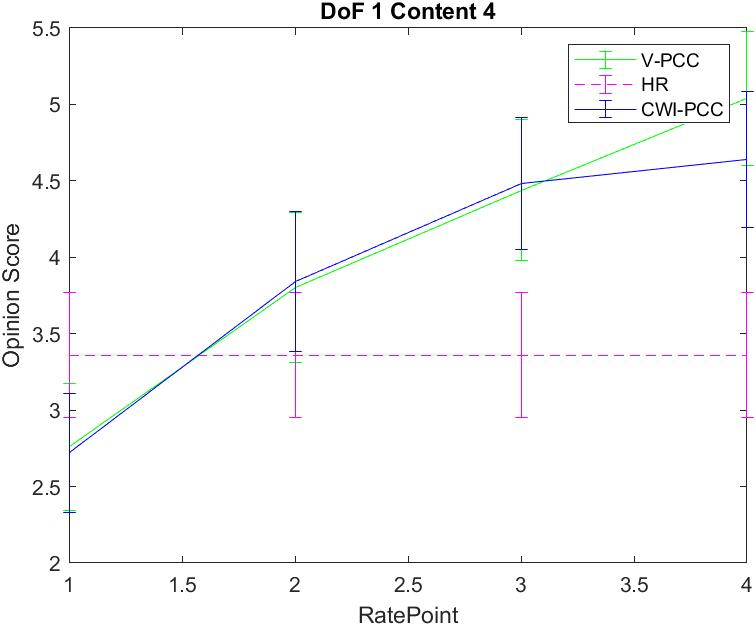
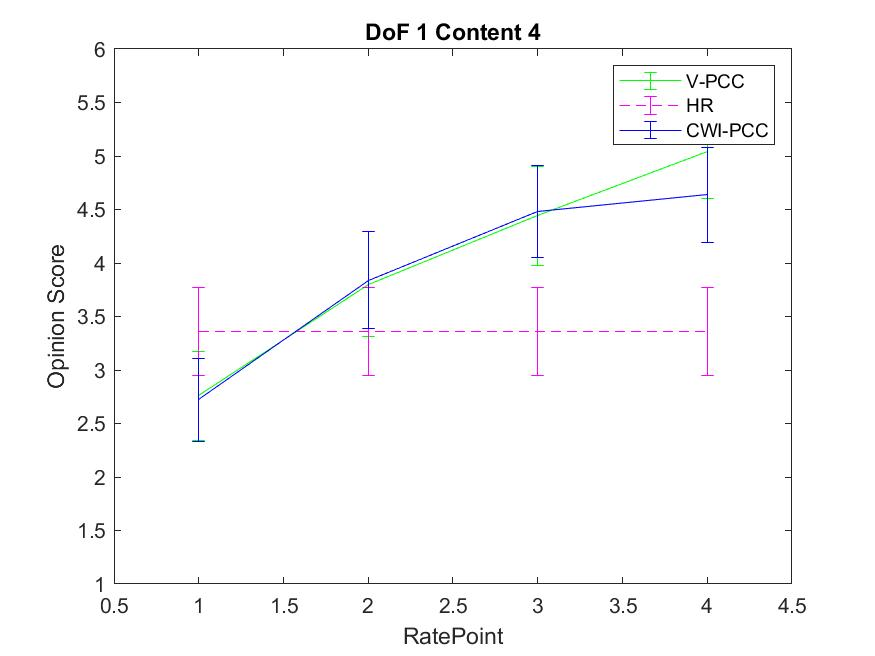
Fixed chart axis lengths

diff --git a/Functions/makePlot.m b/Functions/makePlot.m
@@ -23,8 +23,11 @@ function makePlot(Tin,DoF,Content,dataset)
     title("DoF " + DoF + " Content " + Content);
     xlabel('RatePoint');
     ylabel('Opinion Score');
+    xlim([0.5 4.5]);
+    ylim([1 6]);
     hold off;
     ax = gca;
     %exportgraphics(ax,'Charts/test1234.jpg');
-    exportgraphics(ax,"Charts/T"+dataset+"DoF"+DoF+"Content"+Content+".jpg");
+    %exportgraphics(ax,"Charts/T"+dataset+"DoF"+DoF+"Content"+Content+".jpg");
+    saveas(ax,"Charts/T"+dataset+"DoF"+DoF+"Content"+Content+".jpg");
 end
